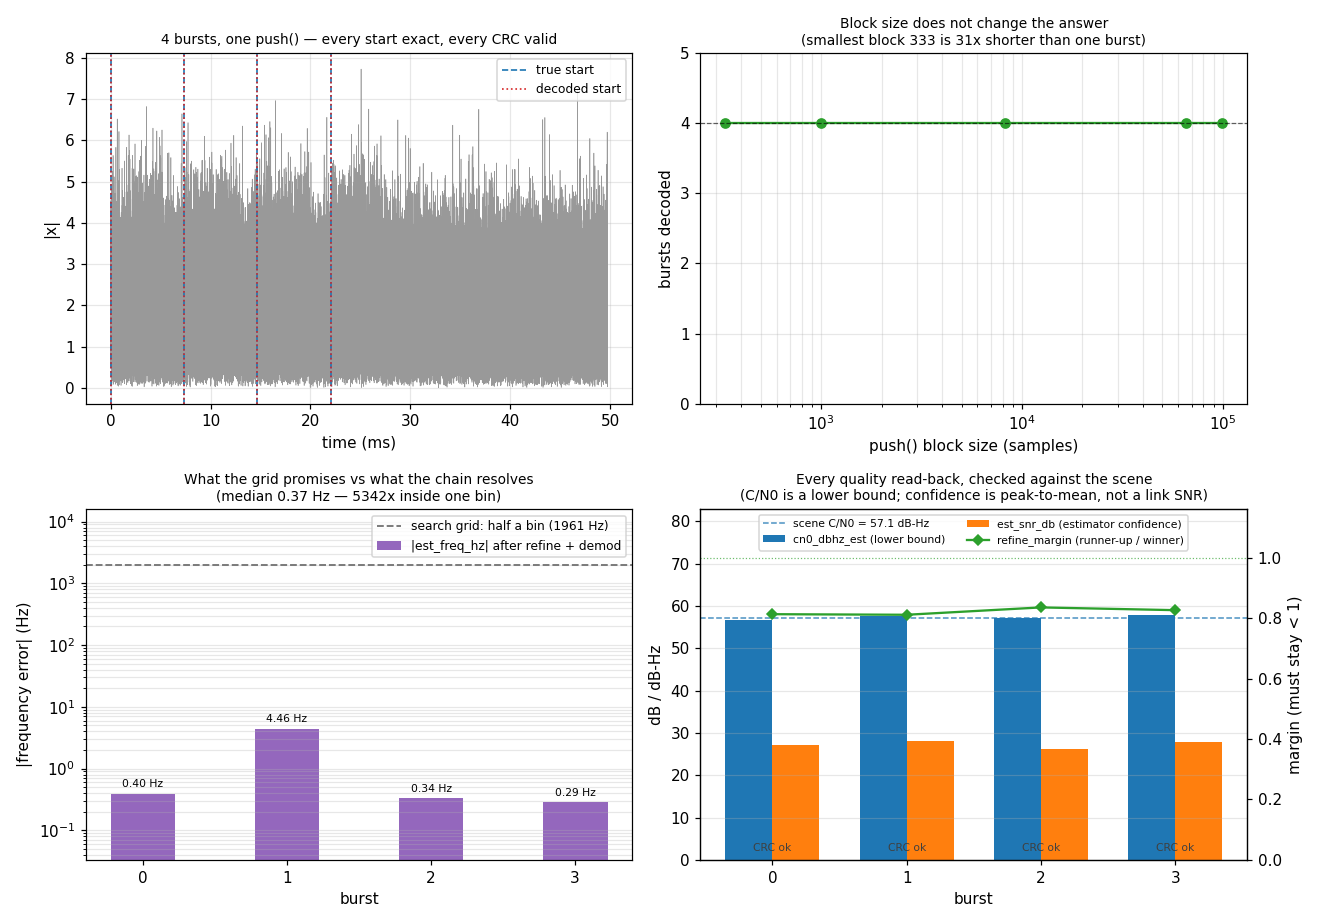
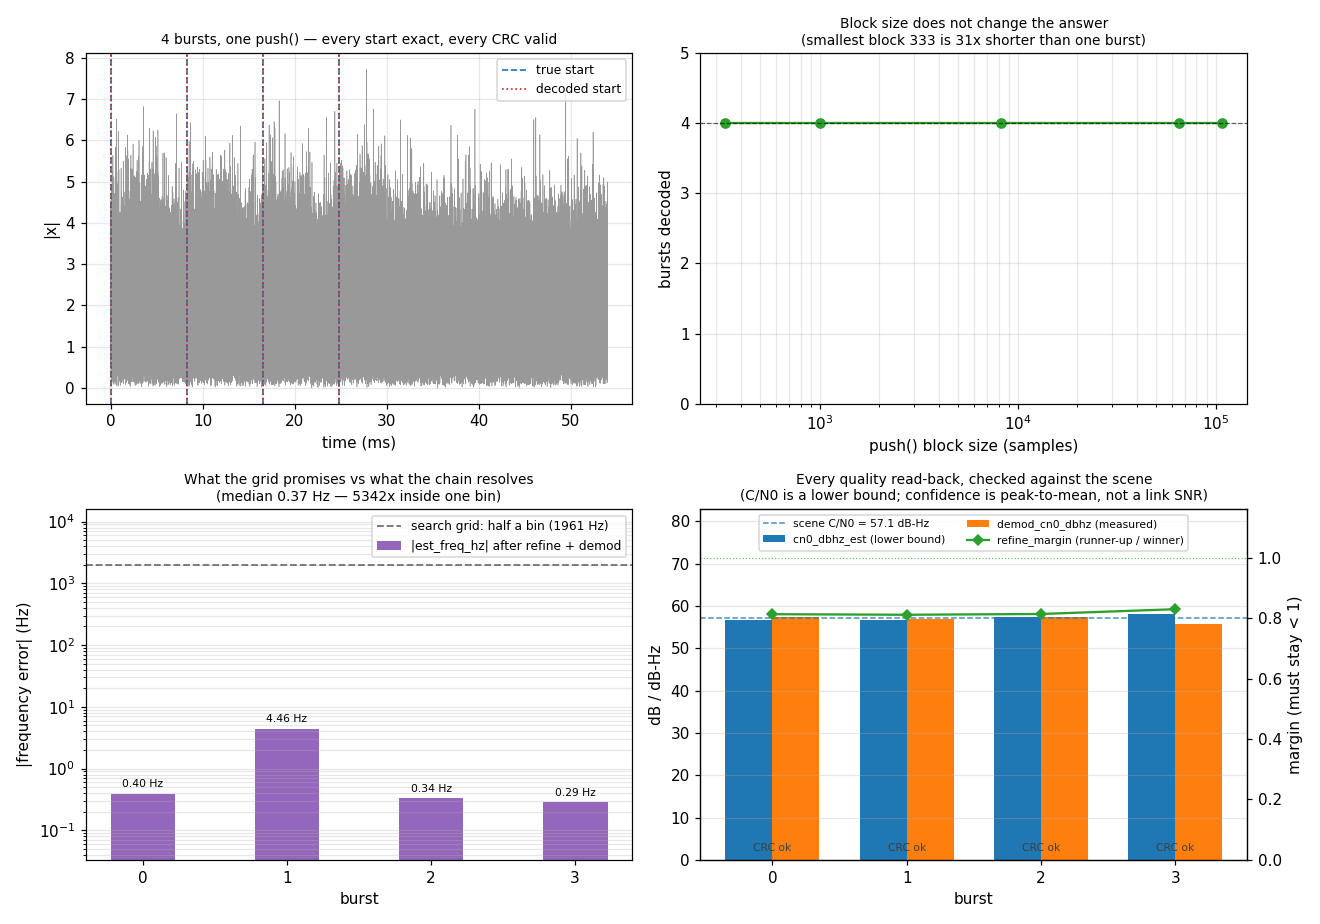
fix(gallery): the burst-receiver plot had no target that refreshed it
`src/doppler/examples/dsss_burst_receiver_demo.py` was in neither
`GALLERY_SCRIPTS` nor the PNG list the recipe moves into `docs/assets/`, so
`docs/assets/dsss_burst_receiver_demo.png` was a hand-committed file that no
target reproduced. That is the failure the recipe's own comment records for
`dsss_acq_characterization.png`, which is why THAT one was wired in; this one
was missed.

It surfaced because doppler#1304 changed the plot: the second series on the
quality panel was `est_snr_db`, a spectral prominence sharing an axis with a
C/N0 in dB-Hz, and it is now `demod_cn0_dbhz`, which is the same quantity as
the bound beside it. The image still showed the old label and nothing would
ever have refreshed it.

Adding it to `GALLERY_SCRIPTS` alone was not enough, which is the finding
worth keeping: the scripts and the PNG basenames are TWO hand-maintained
lists that must correspond and nothing checks that they do, so the script ran,
printed OK, and left its PNG in the repository root where `/*.png` in
.gitignore hides it. Both lists now name it. The general defect is
doppler#1306, with the mapping table it needs and the separate finding that a
no-op `make gallery` rewrites seven unrelated PNGs here.

No-issue: doppler#1306 tracks the general defect; this is the one instance.

Claude-Session: https://claude.ai/code/session_01KN5SWkJ4JUkH4BRrMN5tTz

diff --git a/changelog.d/fixed/gallery-burst-receiver-png.md b/changelog.d/fixed/gallery-burst-receiver-png.md
@@ -1,0 +1,8 @@
+- **The DSSS burst-receiver gallery plot is regenerated by a target again.**
+    `dsss_burst_receiver_demo.py` was in neither `GALLERY_SCRIPTS` nor the
+    recipe's PNG list, so its committed image was hand-made and nothing
+    refreshed it — the same gap `dsss_acq_characterization.png` was wired in
+    for. Both lists now name it. That those two lists are maintained
+    separately, and that a script in only the first orphans its PNG in the
+    repository root, is
+    [#1306](https://github.com/doppler-dsp/doppler/issues/1306).
